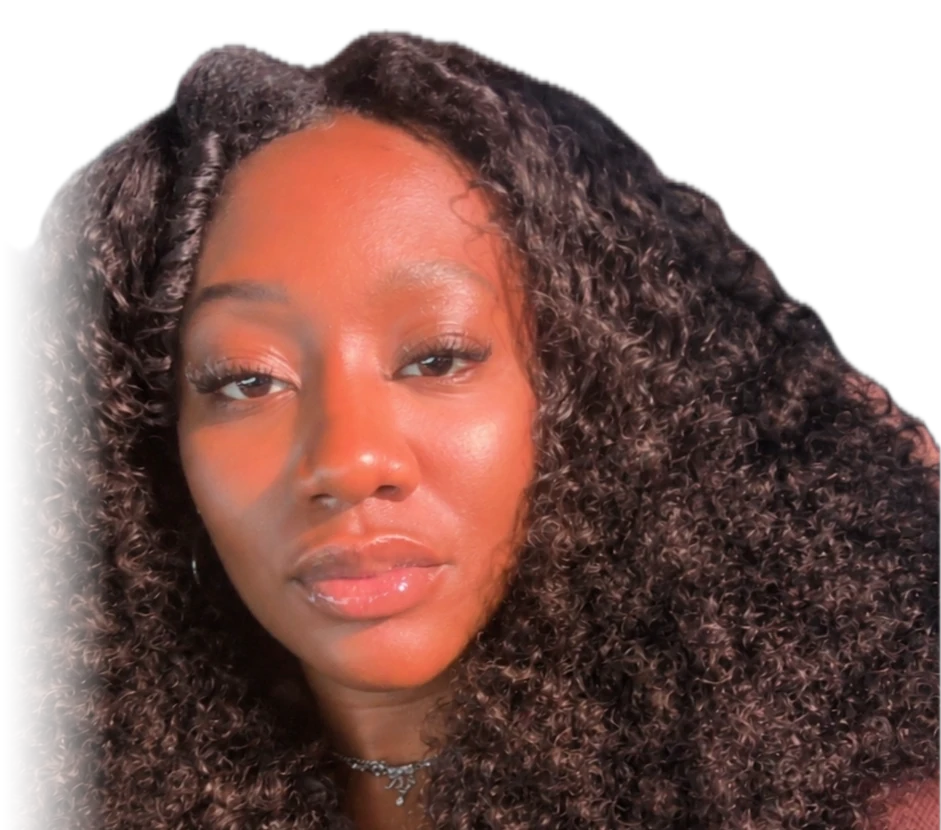
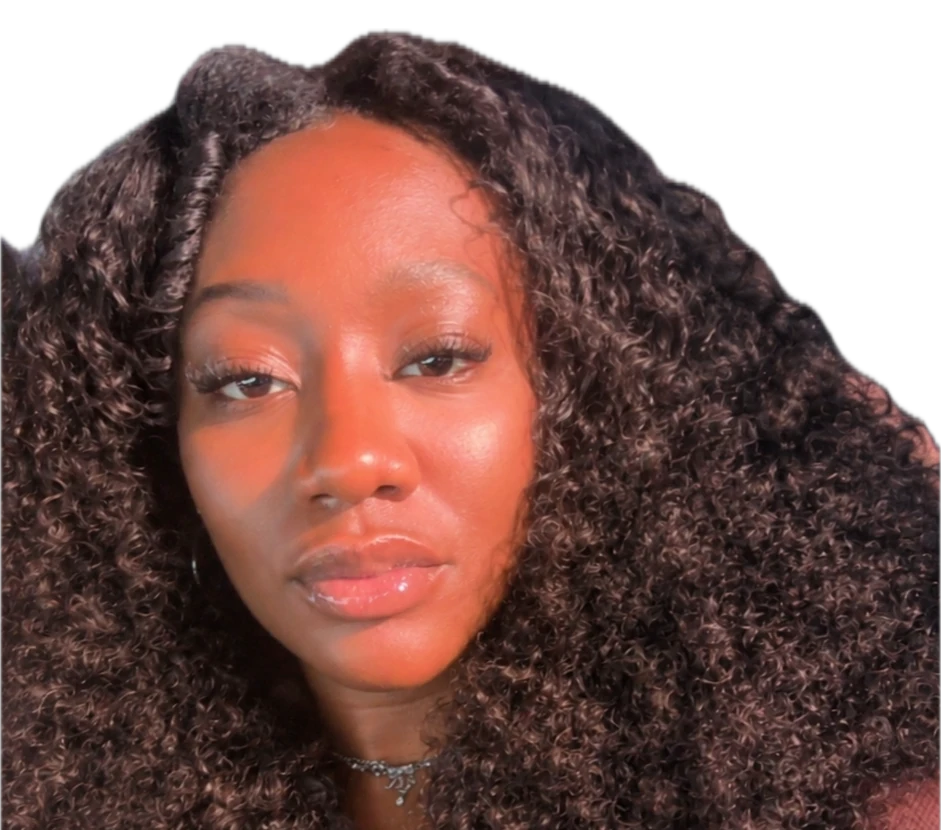
Hero and link preview: fuller-hair photo, crisp edges
Claude-Session: https://claude.ai/code/session_01U4KW6ojkeLuDGZiacLkWzE

Changed region(s): [[0.0, 0.1807, 0.1233, 1.0]]

diff --git a/index.html b/index.html
@@ -10,7 +10,7 @@
 <meta property="og:description" content="I teach. I code. I make things you can play, print and wear.">
 <meta property="og:type" content="website">
 <meta property="og:url" content="https://ravenwashington.com/">
-<meta property="og:image" content="https://ravenwashington.com/img/og-raven.jpg">
+<meta property="og:image" content="https://ravenwashington.com/img/og-raven-3.jpg">
 <link rel="icon" href="favicon.ico?v=4" sizes="any">
 <link rel="icon" type="image/png" sizes="32x32" href="img/favicon-r-32.png">
 <link rel="apple-touch-icon" sizes="180x180" href="img/icon-r-180.png">
@@ -306,7 +306,7 @@
     .hero { height: min(100svh, 920px); min-height: 680px; }
     .spine { display: none; }
     .word { left: 49%; top: 54%; font-size: min(21svh, 190px); }
-    .portrait { right: 5%; height: 80%; }
+    .portrait { right: 1%; height: 78%; }
     .band {
       position: absolute; z-index: 6; top: 0; left: 0;
       width: 48%; height: min(100svh, 920px); min-height: 680px;
